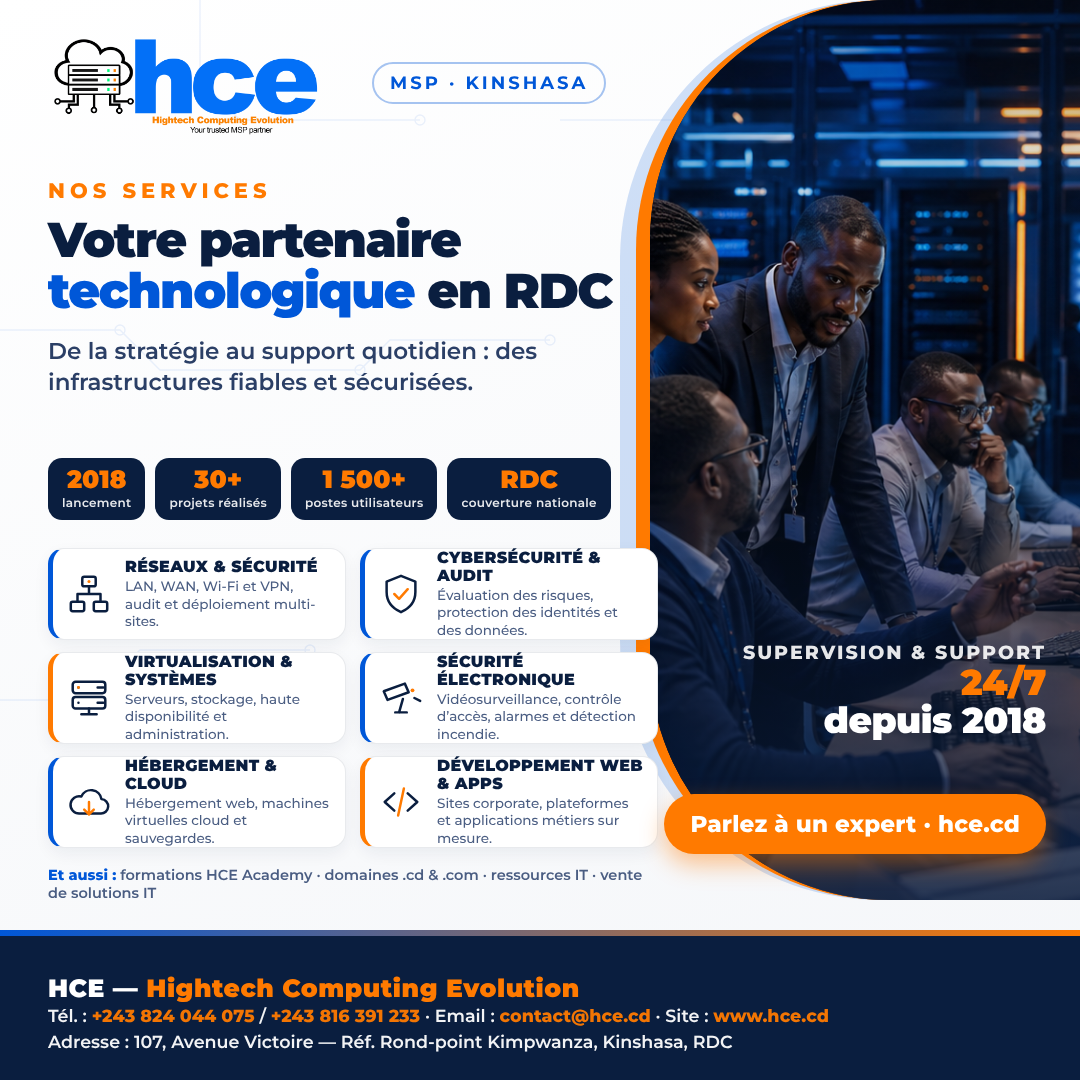
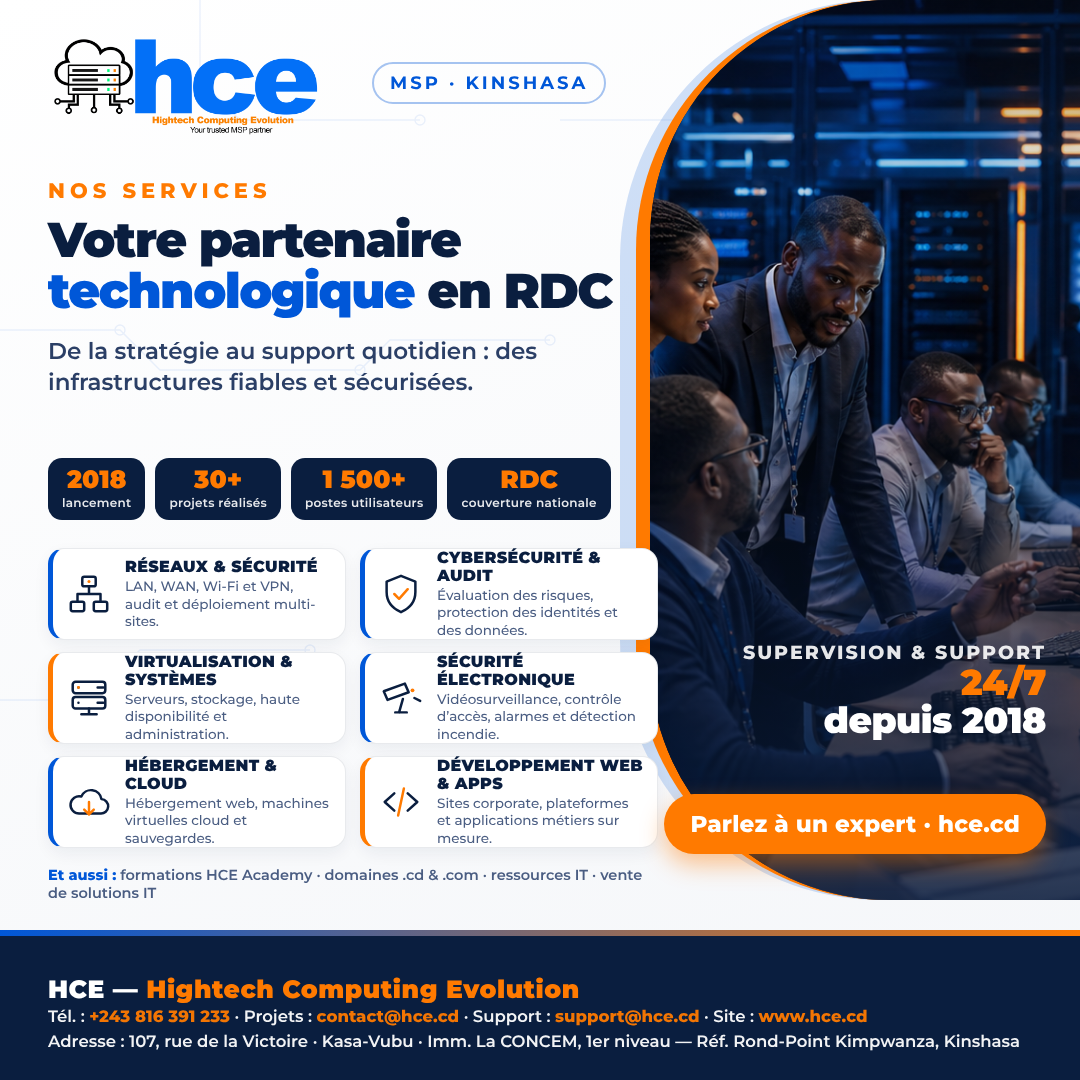
HCE post: use contact details from hce.cd
Claude-Session: https://claude.ai/code/session_01JuujBsdd2oADfW9zP6uXRm

Changed region(s): [[0.0306, 0.9167, 0.9472, 0.9778]]

diff --git a/hce-publication/post.html b/hce-publication/post.html
@@ -48,7 +48,7 @@ h1 em{font-style:normal;color:var(--hce-blue)}
 .foot:before{content:"";position:absolute;left:0;right:0;top:0;height:6px;background:linear-gradient(90deg,var(--hce-blue),var(--hce-orange))}
 .foot .nm{font-weight:900;font-size:25px;letter-spacing:.5px}
 .foot .nm span{color:var(--hce-orange)}
-.foot .l{font-weight:600;font-size:17.5px;line-height:1.5;opacity:.95}
+.foot .l{font-weight:600;font-size:16.5px;line-height:1.5;opacity:.95}
 .foot .l b{color:var(--hce-orange);font-weight:800}
 </style></head><body>
 <div class="post">
@@ -87,7 +87,7 @@ h1 em{font-style:normal;color:var(--hce-blue)}
 
   <div class="foot">
     <div class="nm">HCE — <span>Hightech Computing Evolution</span></div>
-    <div class="l">Tél. : <b>+243 824 044 075</b> / <b>+243 816 391 233</b> · Email : <b>contact@hce.cd</b> · Site : <b>www.hce.cd</b><br>Adresse : 107, Avenue Victoire — Réf. Rond-point Kimpwanza, Kinshasa, RDC</div>
+    <div class="l">Tél. : <b>+243 816 391 233</b> · Projets : <b>contact@hce.cd</b> · Support : <b>support@hce.cd</b> · Site : <b>www.hce.cd</b><br>Adresse : 107, rue de la Victoire · Kasa-Vubu · Imm. La CONCEM, 1er niveau — Réf. Rond-Point Kimpwanza, Kinshasa</div>
   </div>
 </div>
 </body></html>
